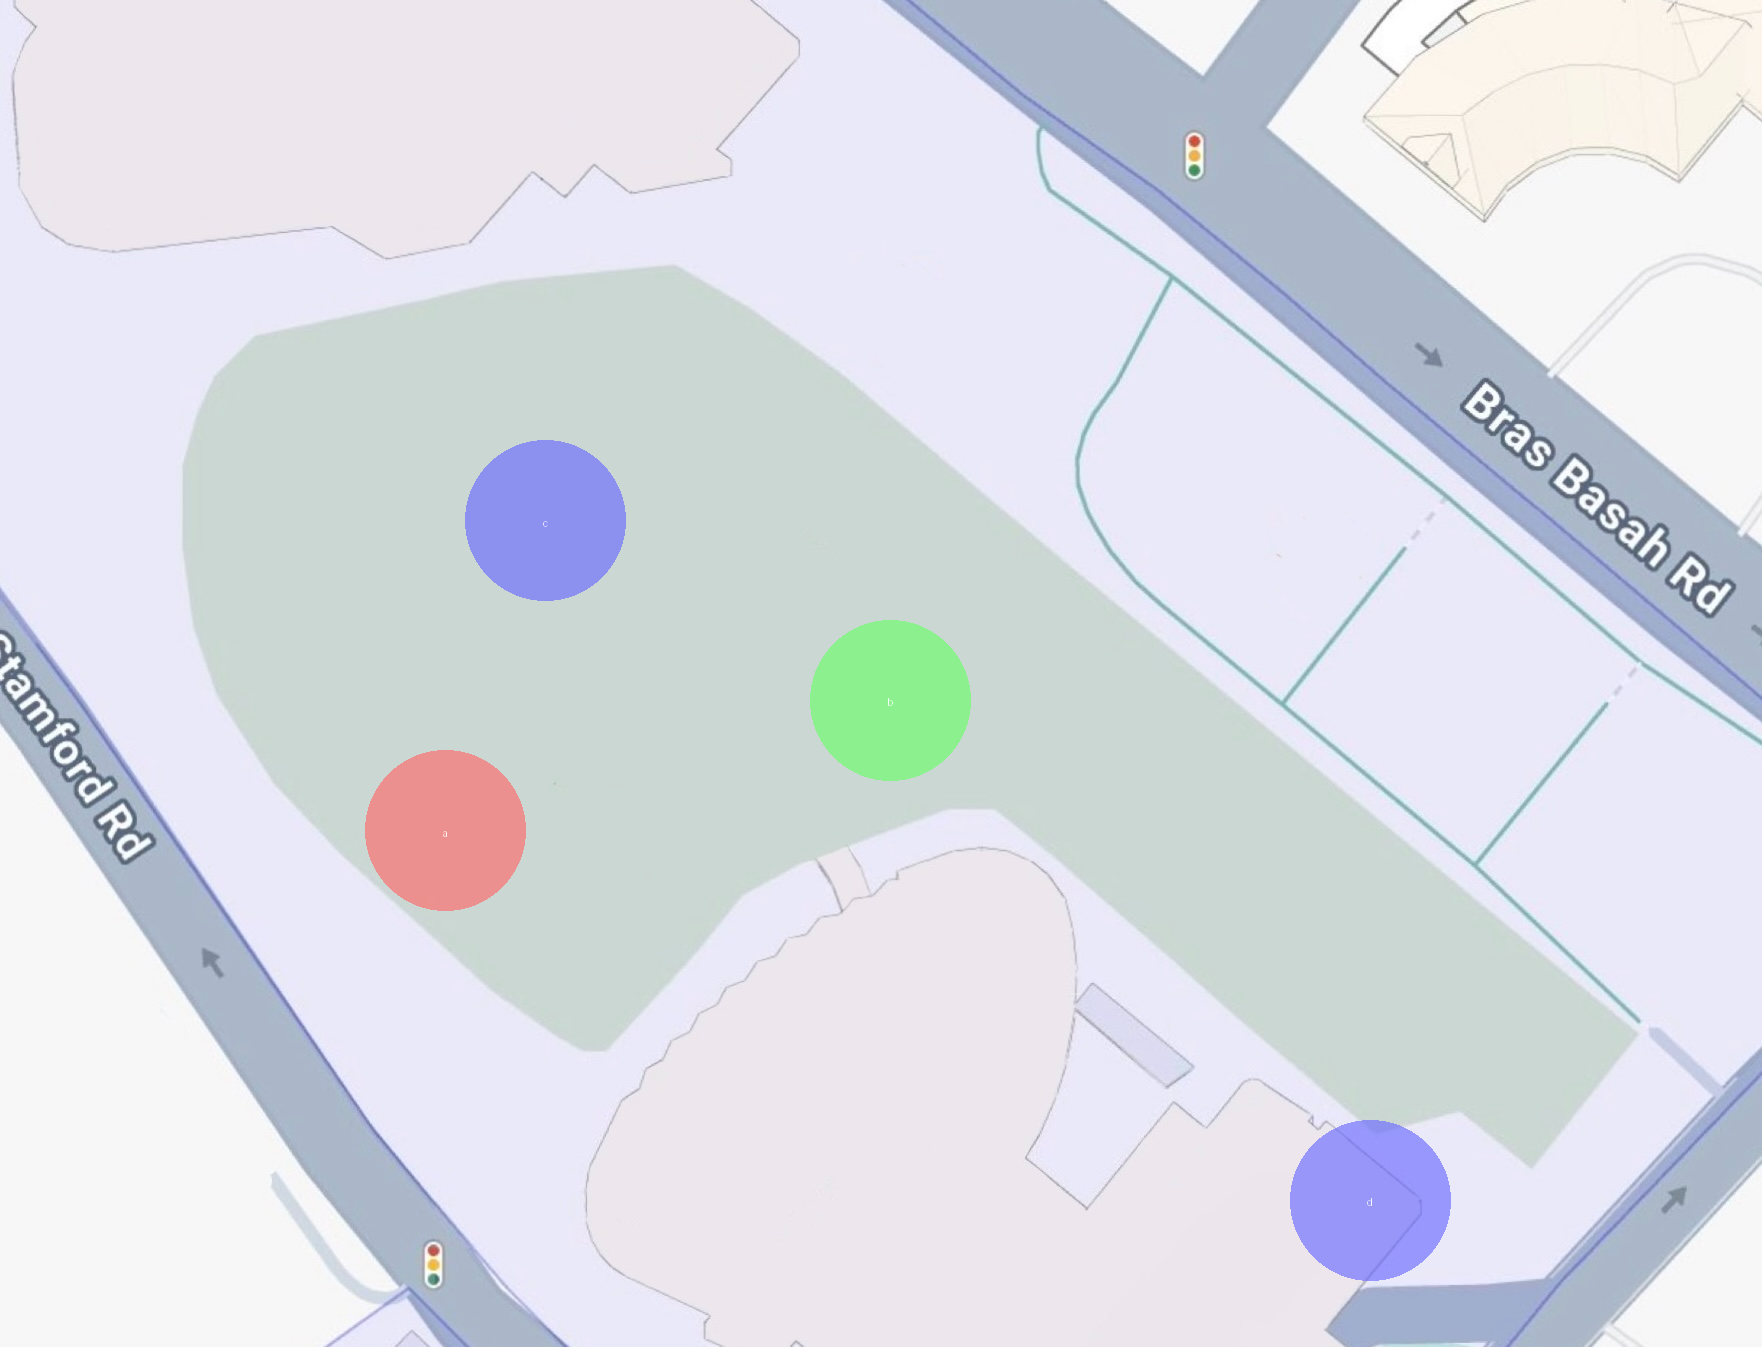
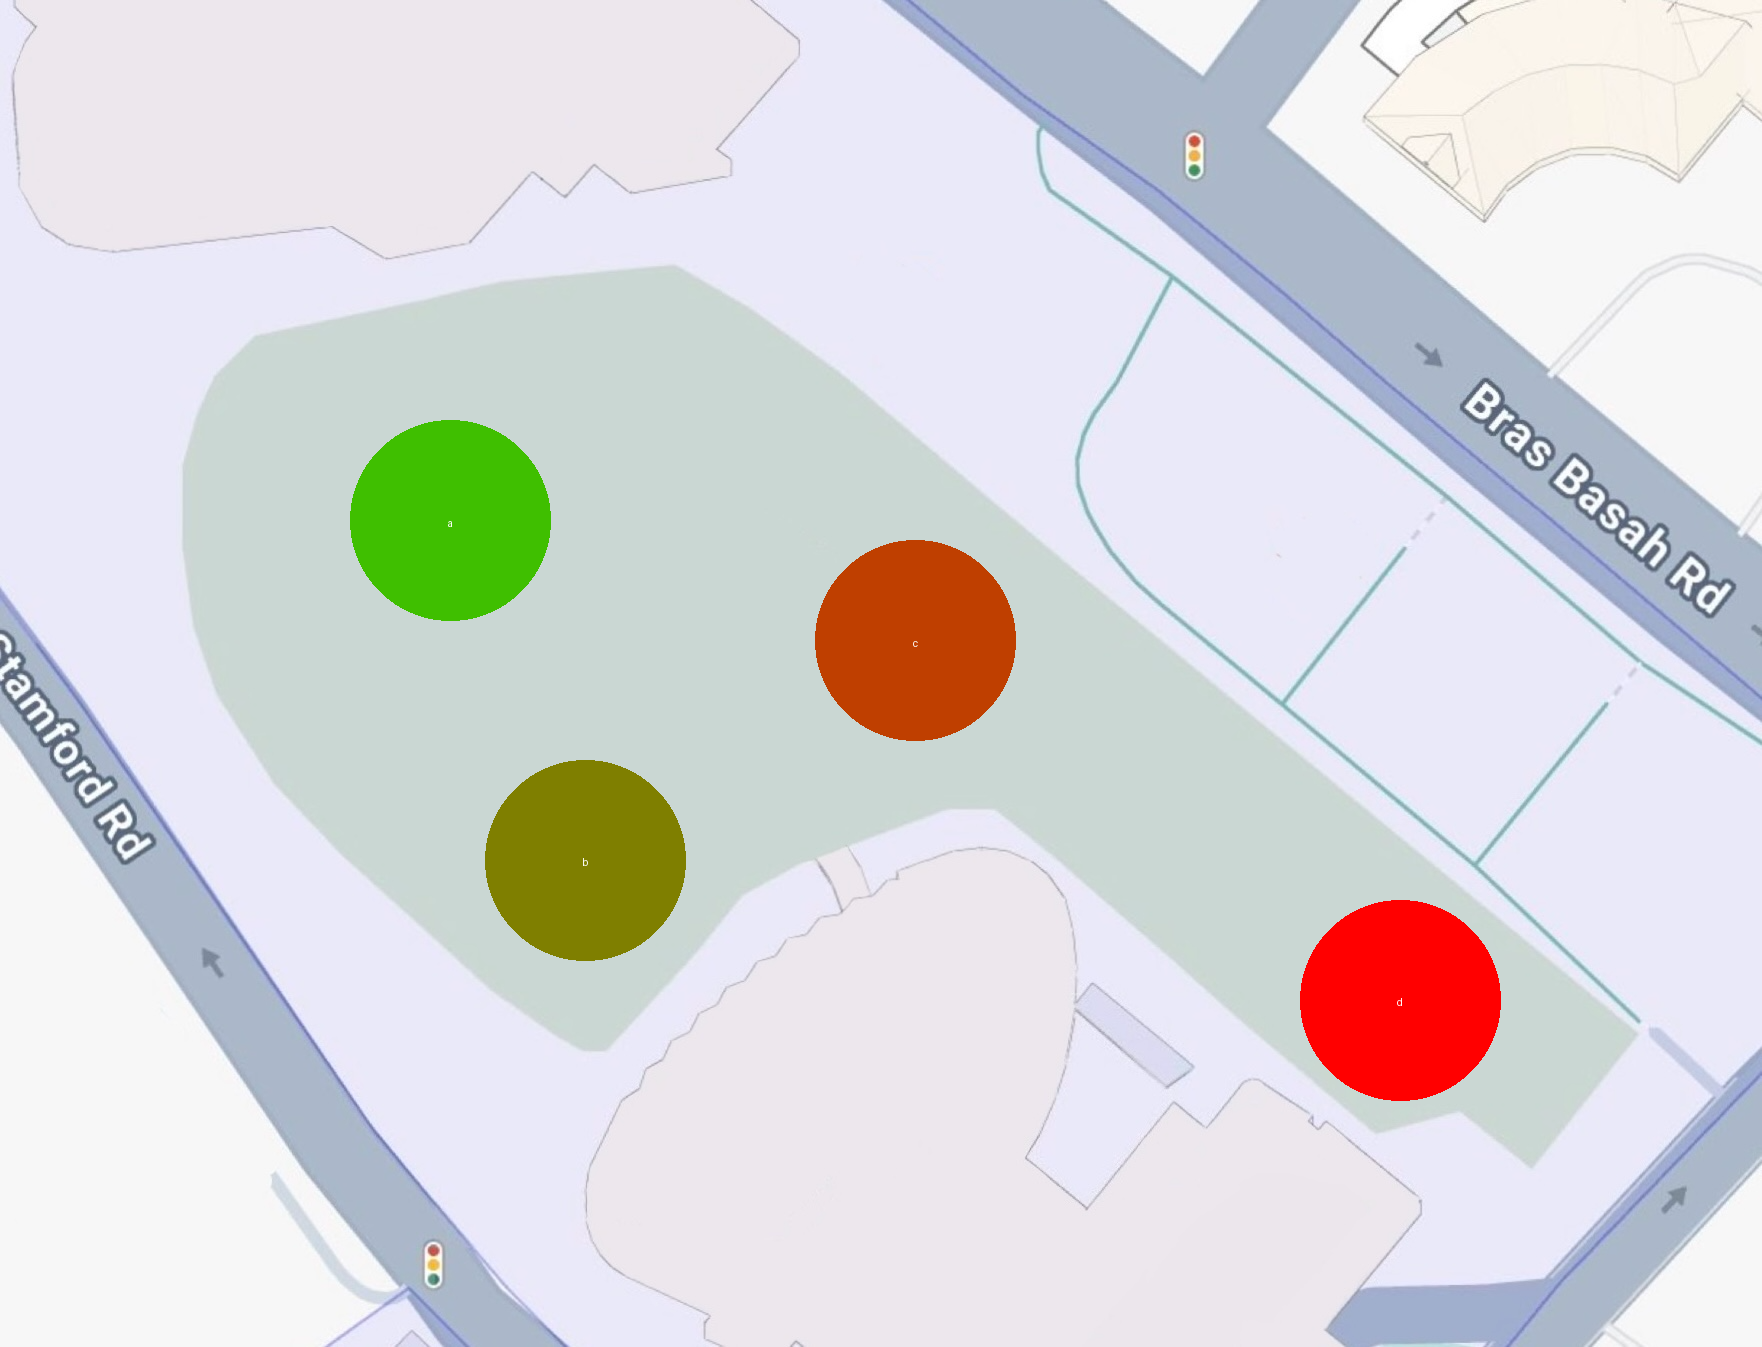
123

diff --git a/app/modules.py b/app/modules.py
@@ -1,17 +1,40 @@
 # all service layer functions
-
 from PIL import Image, ImageDraw, ImageFont
+
 #parameter for demo
-radius = 50
+radius = 100
 zone_coor_file_path = 'test_data/zone_coordinate.txt'
 final_output_path = 'final_hm.png'
-
 array_size = (1762, 1347)  # Size of the image (width, height)
-radius = 80  # Radii of the circles
 
-colors = [(255, 0, 0, 128), (0, 255, 0, 128), (0, 0, 255, 128), (0, 0, 255, 128)]  # Colors of the circles (RGBA)
+zone_number = {
+    "a" : 600 ,
+    "b" : 1500 ,
+    "c" : 2000 ,
+    "d" : 3000 ,
 
-#-----------------------------------------------------------Funcitons for heat map generation
+}
+
+#-----------------------------------------------------------helper functions
+# generate color catgaries
+def green_to_red(value, transparent=1):
+    green = (0, 255, 0)
+    red = (255, 0, 0)
+
+    # Interpolate between green and red
+    r = int(green[0] + (red[0] - green[0]) * value)
+    g = int(green[1] + (red[1] - green[1]) * value)
+
+    return (r, g, 0, int(transparent * 255))
+
+c1 = green_to_red(0) 
+c2 = green_to_red(0.25)   
+c3 = green_to_red(0.5) 
+c4 = green_to_red(0.75) 
+c5 = green_to_red(1) 
+
+color_cat = [c1, c2, c3, c4, c5]
+
 # helper function to read preset data
 # to outpur dict of zone_coor
 def read_zone_coor(file_path):
@@ -26,24 +49,31 @@ def read_zone_coor(file_path):
             zone_dict[zone_name] = coor
     return(zone_dict)
 
+#-----------------------------------------------------------Funcitons for heat map generation
+
 # function 1 
 # input:  number_per_zone, a  dictionary {zone_id : number_in_the_zone}
 # output: reletive_scal, a dictionary { zone_id : reletive_density}
-def generate_zone_color(number_per_zone, radius):
-    participant_nums = list(number_per_zone.values())
-    zone_nums = list(number_per_zone.keys())
-    area = 3.14 * (radius ** 2)
+def generate_zone_color(zone_number):
+    participant_nums = list(zone_number.values())
+    zone_ids = list(zone_number.keys())
+    area = 3.14 * (10 ** 2)
+
     index_list =[]
     for i in participant_nums:
-        index_list.append(round((i/area),3))
+        cat = round( (i/area) ,3) / 7 
+        if cat >= 1 :
+            index_list.append(4)
+        else:
+            index_list.append( int(cat// 0.25 ))
+
     zone_color = {}
     for n in range(0,len(index_list)):
-        zone_color[zone_nums[n]]=index_list[n]
+        zone_color[zone_ids[n]] = color_cat[index_list[n]]
     return zone_color
 
-# zone_color = generate_zone_color(number_per_zone, radius)
 
-def generate_hm(array_size, zone_coor, radius, colors):
+def generate_hm(array_size, zone_coor, radius, zone_color):
     # Create a blank image with a translucent (alpha) background
     img = Image.new('RGBA', array_size, (0, 0, 0, 0))  # Fully transparent background
     draw = ImageDraw.Draw(img)
@@ -57,9 +87,9 @@ def generate_hm(array_size, zone_coor, radius, colors):
         font = ImageFont.load_default()
     centers = list(zone_coor.values())
     labels = list(zone_coor.keys())
-    #colors = []
-    #for element in labels:
-       # colors.append(zone_color[element])
+    colors = []
+    for element in labels:
+       colors.append(zone_color[element])
 
     # Draw each circle and its label
     for center, color, label in zip(centers, colors, labels):
@@ -98,16 +128,15 @@ def overlap_images(output_path):
     # Save the result
     result.save(output_path, 'PNG')
 
+
+
 # Example usage
-
+zone_color = generate_zone_color(zone_number)
 zone_coor = read_zone_coor(zone_coor_file_path)
-# zone_color = ??? right now is hard coded
 
-generate_hm(array_size, zone_coor, radius, colors)
+
+generate_hm(array_size, zone_coor, radius, zone_color)
 overlap_images(final_output_path)
-
-
-
 
 
 #-----------------------------------------------------------Funcitons for check-in ?
